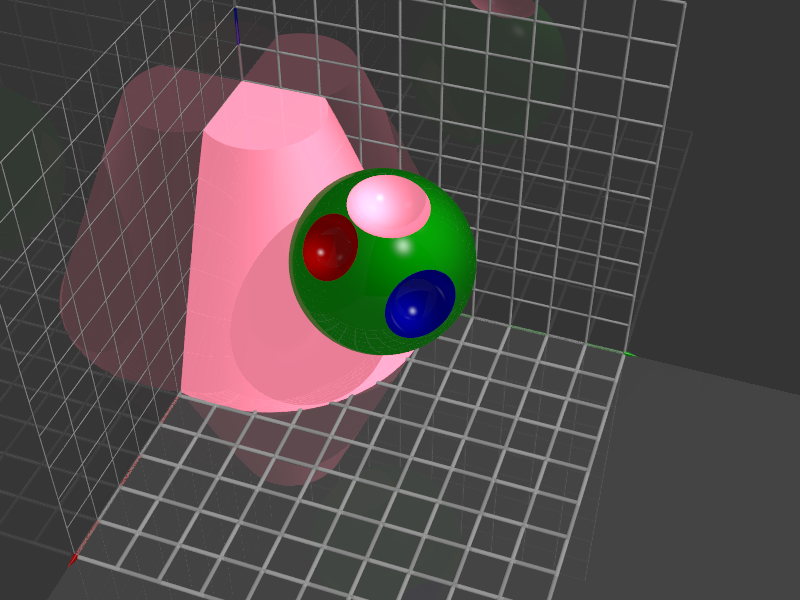
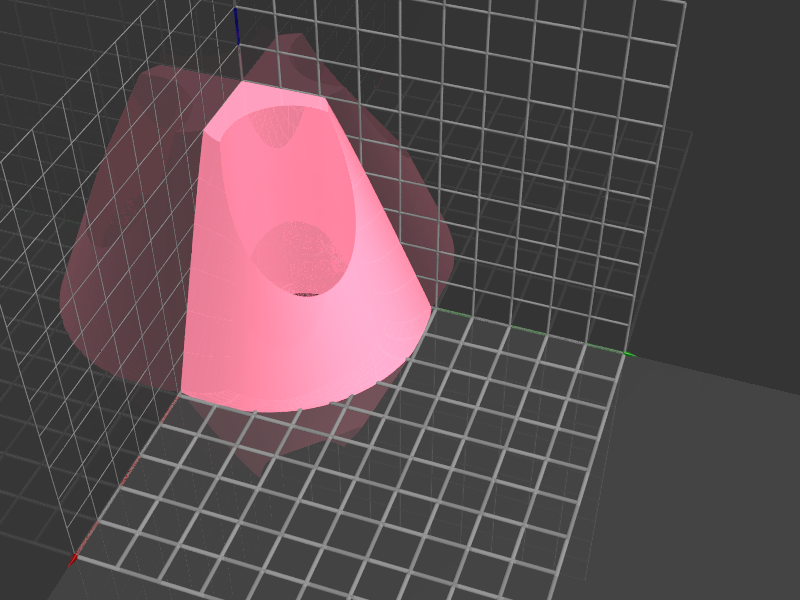
Cylinder

diff --git a/pov.m b/pov.m
@@ -310,15 +310,14 @@ classdef pov < handle
         function cone(o, varargin)
             % Parse
             p = inputParser;
-
-            addParameter(p,'base_point',  [0 0 0],     @o.check_vector3);
-            addParameter(p,'base_radius',     1.0,     @o.check_positive_float);
-            addParameter(p,'cap_point',   [0 0 5],     @o.check_vector3);
+            addParameter(p,'base_point', [0 0 0],      @o.check_vector3);
+            addParameter(p,'base_radius',    1.0,      @o.check_positive_float);
+            addParameter(p,'cap_point',  [0 0 5],      @o.check_vector3);
             addParameter(p,'cap_radius',       0,      @o.check_positive_float);
             addParameter(p,'texture',   "tex_default", @o.check_string);
-            addParameter(p,'scale',     [1 1 1],       @o.check_vector3);
-            addParameter(p,'rotate',    [0 0 0],       @o.check_vector3);
-            addParameter(p,'translate', [0 0 0],       @o.check_vector3);
+            addParameter(p,'scale',      [1 1 1],      @o.check_vector3);
+            addParameter(p,'rotate',     [0 0 0],      @o.check_vector3);
+            addParameter(p,'translate',  [0 0 0],      @o.check_vector3);
             parse(p,varargin{:});
 
             base_point  = p.Results.base_point;
@@ -331,12 +330,42 @@ classdef pov < handle
             translate = p.Results.translate;
 
             % Write
-            % cone { <0,0,0>,1.75, <0, 0, 8>, 0.5 
             fprintf(o.fh, ['cone {<%0.2f, %0.2f, %0.2f>, %0.2f, <%0.2f, %0.2f, %0.2f>, %0.2f\n'...
                            '        texture { %s }\n'...
                            '        scale<%0.2f, %0.2f, %0.2f> rotate <%0.2f, %0.2f, %0.2f> translate <%0.2f, %0.2f, %0.2f>}\n\n'],...
                            base_point(1), base_point(2), base_point(3), base_radius,...
                            cap_point(1),  cap_point(2),  cap_point(3),  cap_radius,...
+                           texture,...
+                           scale(1), scale(2), scale(3), rotate(1), rotate(2), rotate(3), translate(1), translate(2), translate(3));
+        end
+
+        % Cylinder
+        function cylinder(o, varargin)
+            % Parse
+            p = inputParser;
+            addParameter(p,'base_point',[0 0 0],      @o.check_vector3);
+            addParameter(p,'cap_point', [0 0 5],      @o.check_vector3);
+            addParameter(p,'radius',          0,      @o.check_positive_float);
+            addParameter(p,'texture',  "tex_default", @o.check_string);
+            addParameter(p,'scale',     [1 1 1],      @o.check_vector3);
+            addParameter(p,'rotate',    [0 0 0],      @o.check_vector3);
+            addParameter(p,'translate', [0 0 0],      @o.check_vector3);
+            parse(p,varargin{:});
+
+            base_point = p.Results.base_point;
+            cap_point  = p.Results.cap_point;
+            radius     = p.Results.radius;
+            texture    = p.Results.texture;
+            scale      = p.Results.scale;
+            rotate     = p.Results.rotate;
+            translate  = p.Results.translate;
+
+            % Write
+            fprintf(o.fh, ['cylinder {<%0.2f, %0.2f, %0.2f>, <%0.2f, %0.2f, %0.2f>, %0.2f\n'...
+                           '          texture { %s }\n'...
+                           '          scale<%0.2f, %0.2f, %0.2f> rotate <%0.2f, %0.2f, %0.2f> translate <%0.2f, %0.2f, %0.2f>}\n\n'],...
+                           base_point(1), base_point(2), base_point(3),...
+                           cap_point(1),  cap_point(2),  cap_point(3), radius,...
                            texture,...
                            scale(1), scale(2), scale(3), rotate(1), rotate(2), rotate(3), translate(1), translate(2), translate(3));
         end

diff --git a/examples/csg.m b/examples/csg.m
@@ -98,17 +98,20 @@ tex_green = pov.declare("tex_green", pov.texture('pigment', [0 1 0], 'finish', '
 tex_blue  = pov.declare("tex_blue",  pov.texture('pigment', [0 0 1], 'finish', 'phong 1 reflection {0.10 metallic 0.4}'));
 tex_pink  = pov.declare("tex_pink",  pov.texture('pigment', [8 2 3], 'finish', 'phong 1 reflection {0.10 metallic 0.4}'));
 
-pov.difference_begin();
-    %pov.sphere();
-    pov.sphere('position', [1 1 1], 'radius', 2, 'texture', tex_green, 'scale', [1 1 1], 'rotate', [0 0 0], 'translate', [0 1 0]);
-    pov.union_begin();
-          pov.sphere('position', [2 1 2], 'radius', 0.7, 'texture', tex_red,  'scale', [1 1 1], 'rotate', [0 0 0], 'translate', [0 0 0]);
-          pov.sphere('position', [2 3 1], 'radius', 0.8, 'texture', tex_blue, 'scale', [1 1 1], 'rotate', [0 0 0], 'translate', [0 0 0]);
-          pov.sphere('position', [1 2 3], 'radius', 1.0, 'texture', tex_pink, 'scale', [1 1 1], 'rotate', [0 0 0], 'translate', [0 0 0]);
-     pov.union_end('translate', [0.3 0.3 0.3]);
-pov.difference_end('scale', [1 1 1], 'rotate', [0 0 0], 'translate', [3 3 4]);
+% pov.difference_begin();
+%     %pov.sphere();
+%     pov.sphere('position', [1 1 1], 'radius', 2, 'texture', tex_green, 'scale', [1 1 1], 'rotate', [0 0 0], 'translate', [0 1 0]);
+%     pov.union_begin();
+%           pov.sphere('position', [2 1 2], 'radius', 0.7, 'texture', tex_red,  'scale', [1 1 1], 'rotate', [0 0 0], 'translate', [0 0 0]);
+%           pov.sphere('position', [2 3 1], 'radius', 0.8, 'texture', tex_blue, 'scale', [1 1 1], 'rotate', [0 0 0], 'translate', [0 0 0]);
+%           pov.sphere('position', [1 2 3], 'radius', 1.0, 'texture', tex_pink, 'scale', [1 1 1], 'rotate', [0 0 0], 'translate', [0 0 0]);
+%      pov.union_end('translate', [0.3 0.3 0.3]);
+% pov.difference_end('scale', [1 1 1], 'rotate', [0 0 0], 'translate', [3 3 4]);
 
+pov.difference_begin();
 pov.cone('base_point', [1 1 0], 'base_radius', 4, 'cap_point', [1 1 6], 'cap_radius', 1.5, 'texture', tex_pink);
+pov.cylinder('base_point', [2 2 0], 'cap_point', [2 2 8], 'radius', 1.5, 'texture', tex_pink);
+pov.difference_end();
 
 pov.scene_end();
 img = pov.render();
